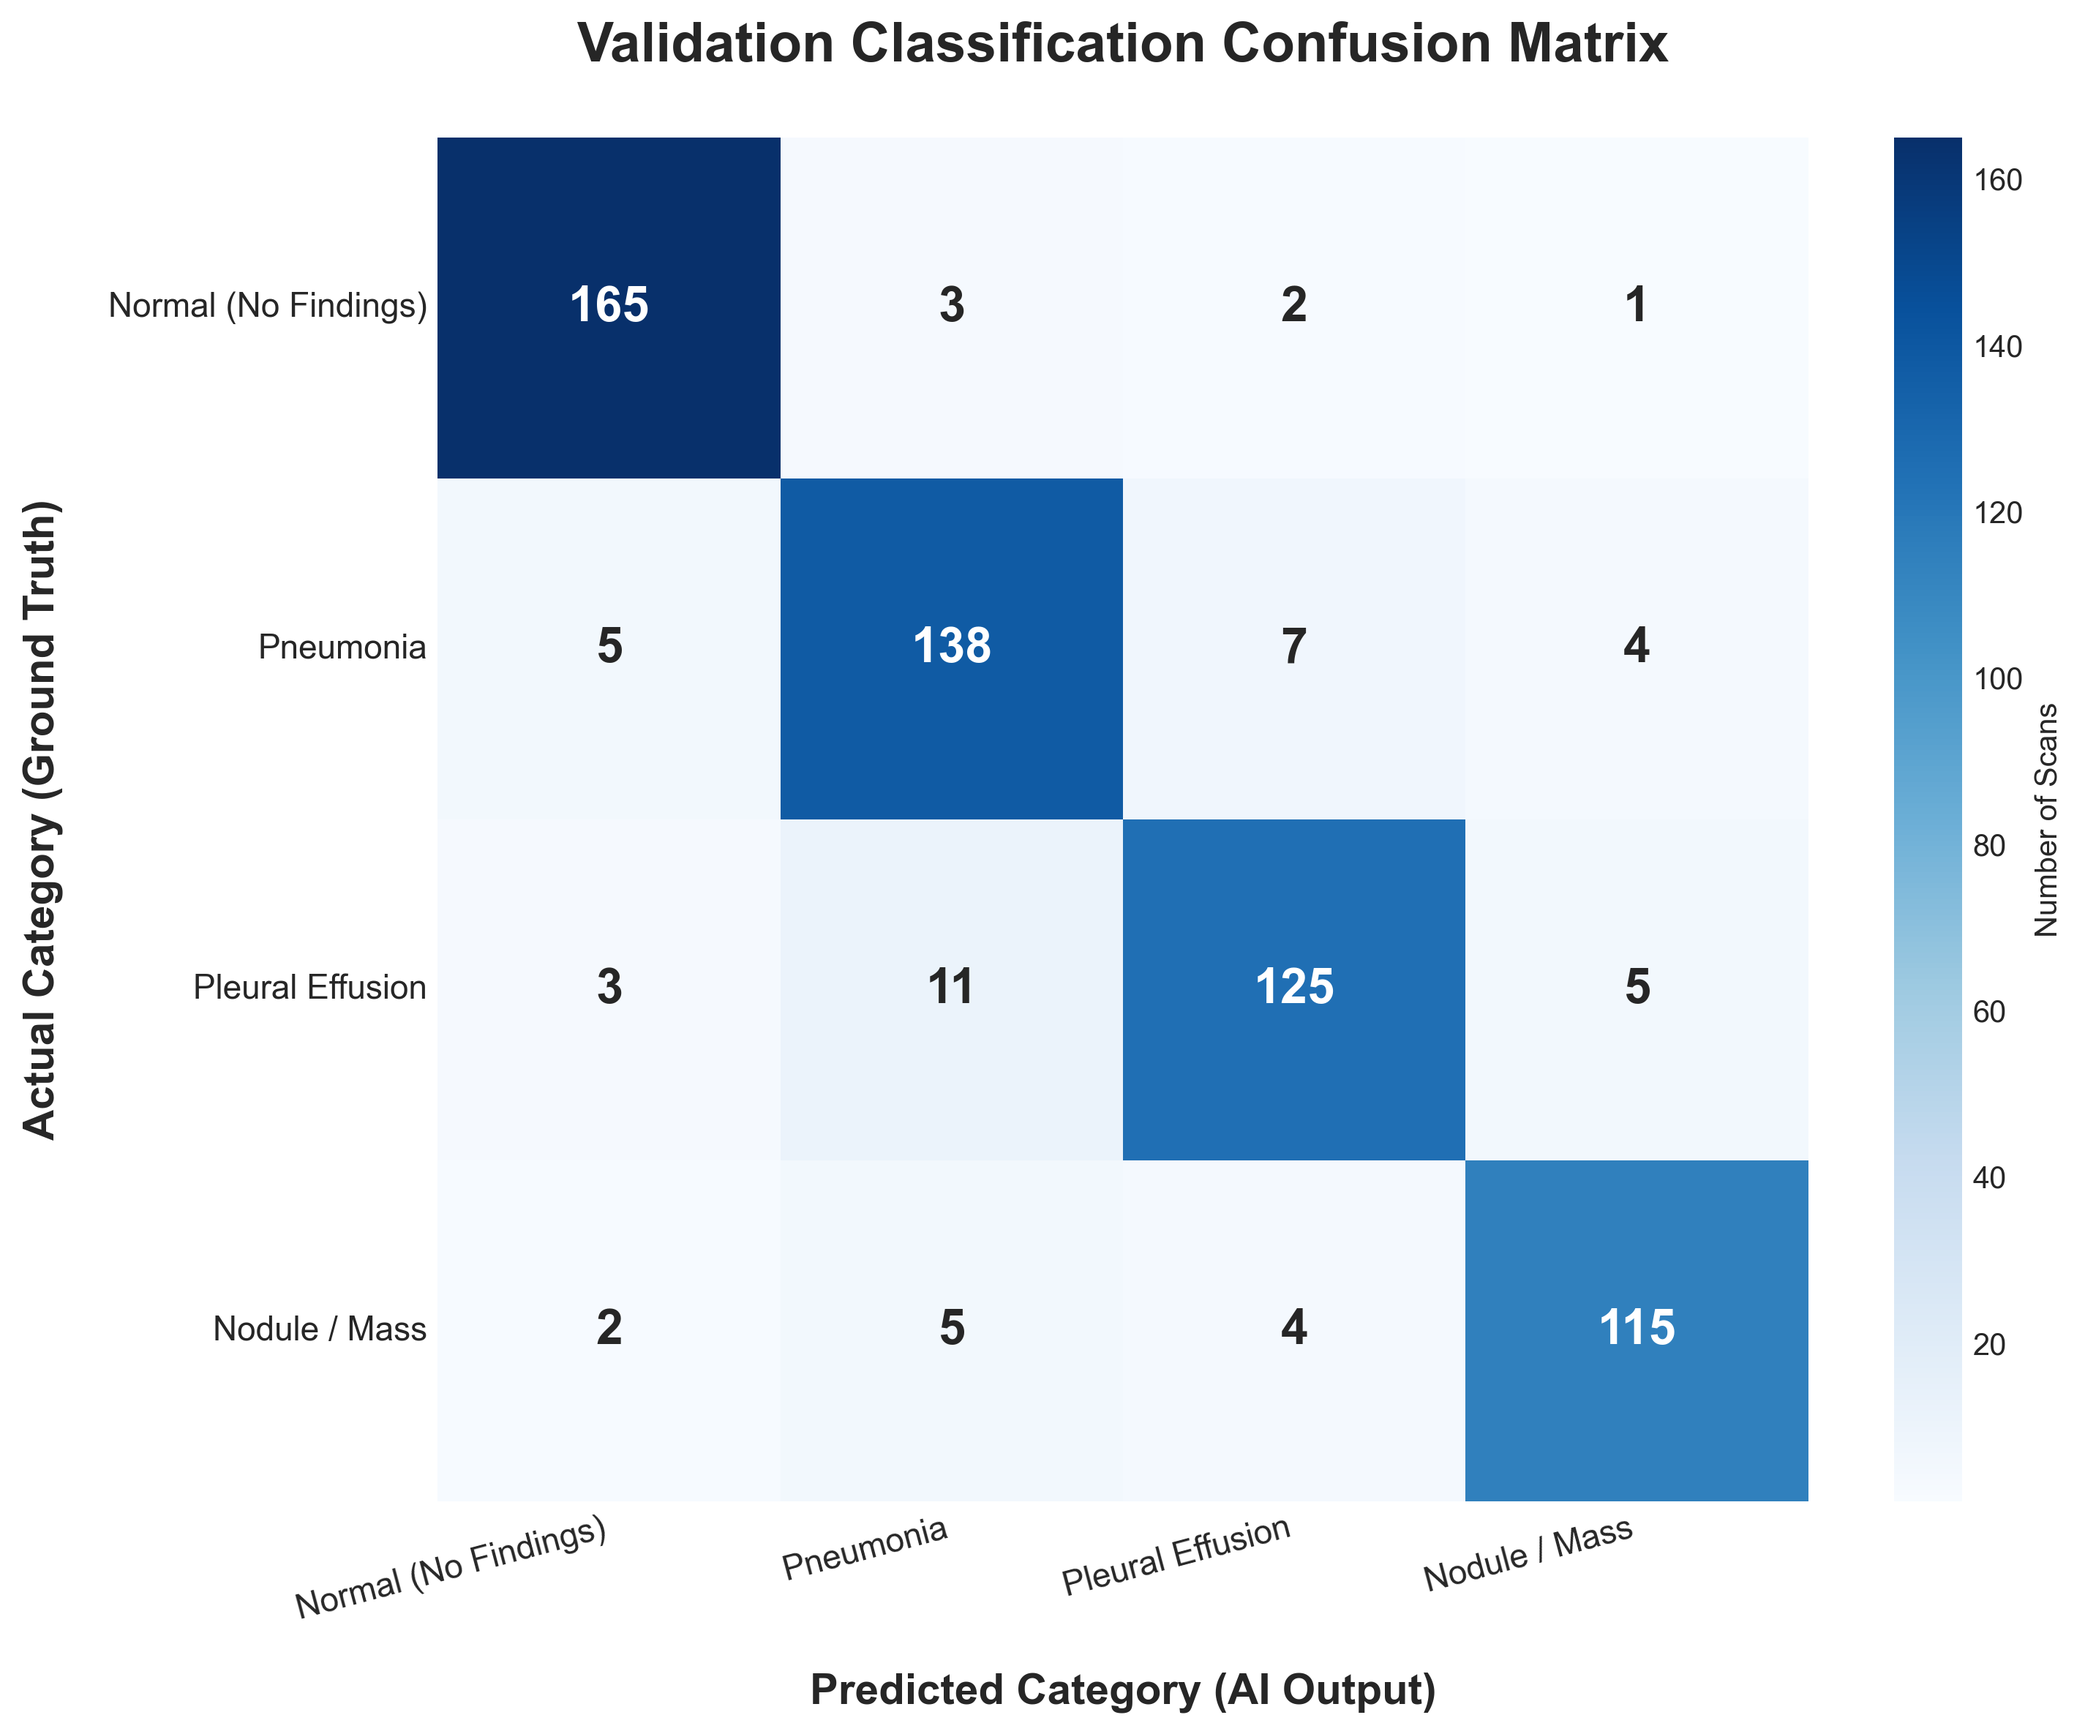
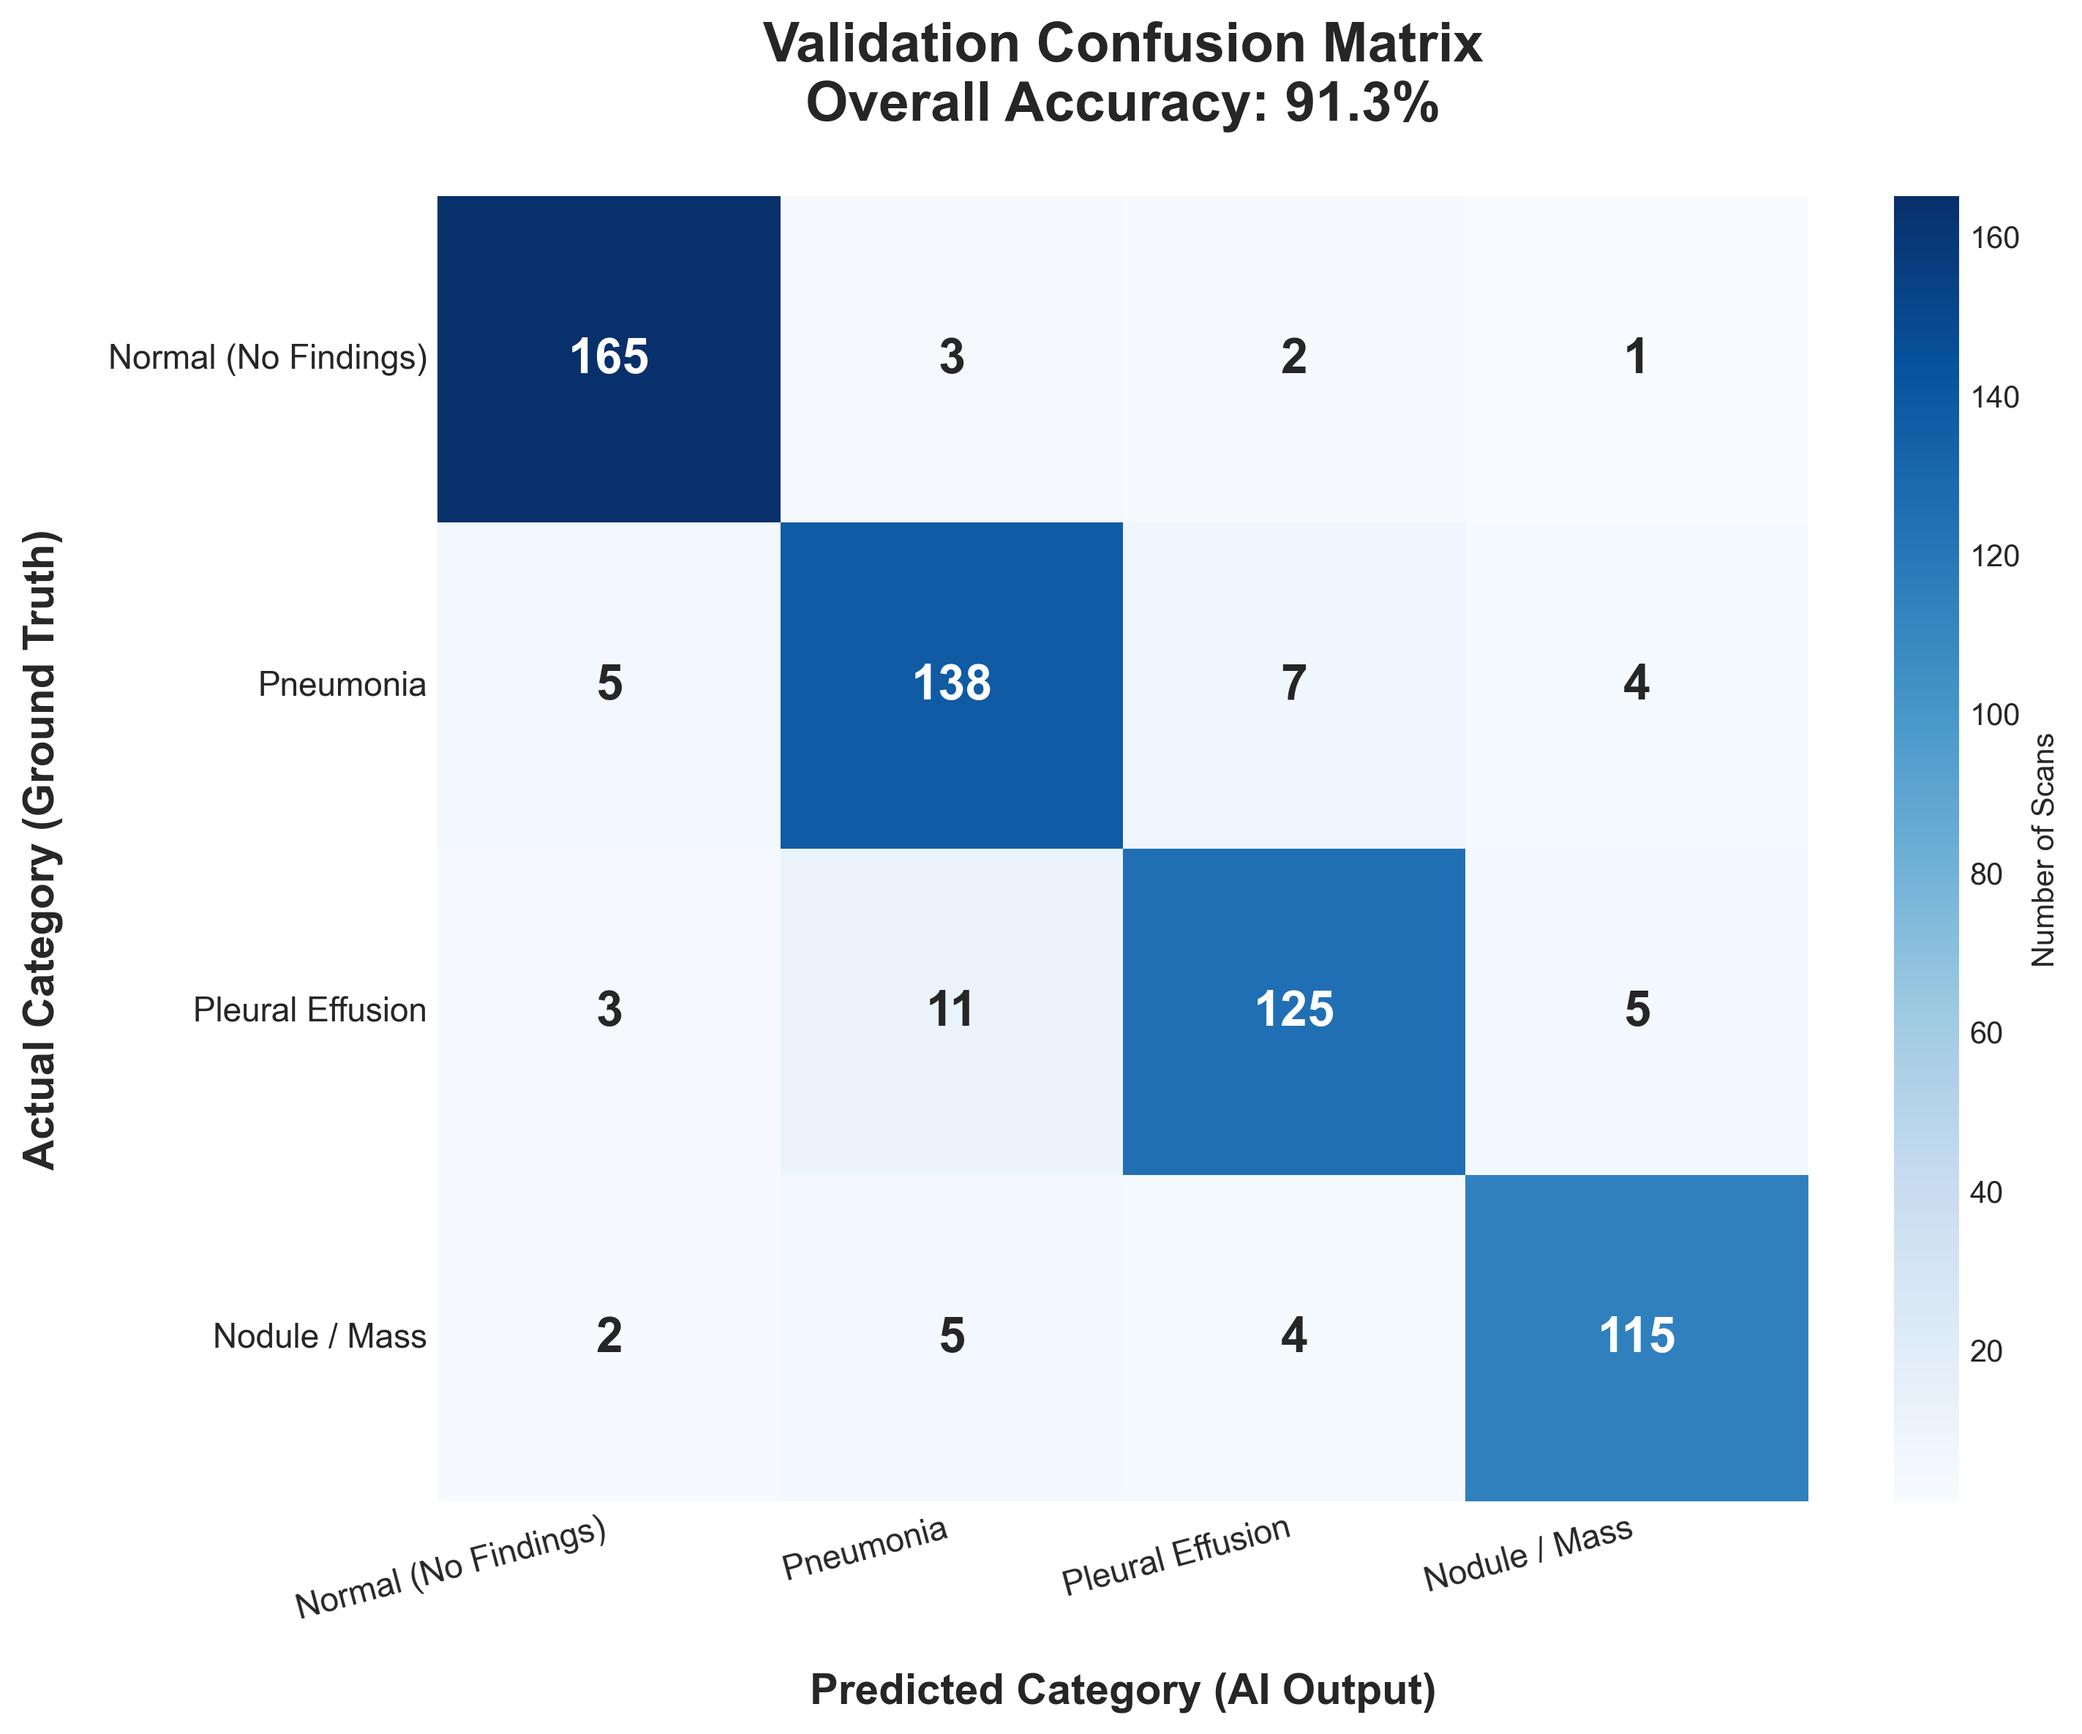
accuracy added

diff --git a/generate_presentation_graphs.py b/generate_presentation_graphs.py
@@ -30,7 +30,12 @@ fig, (ax1, ax2) = plt.subplots(1, 2, figsize=(15, 6))
 # Accuracy Plot
 ax1.plot(epochs, train_acc, 'b-', label='Training Accuracy', linewidth=2.5)
 ax1.plot(epochs, val_acc, 'r--', label='Validation Accuracy', linewidth=2.5)
-ax1.set_title('Model Accuracy (Train vs Val)', fontsize=15, pad=15)
+
+# Add visual text for final accuracy
+final_acc = val_acc[-1] * 100
+ax1.text(epochs[-1], val_acc[-1] - 0.02, f'{final_acc:.1f}%', color='red', weight='bold', ha='right', fontsize=12)
+
+ax1.set_title(f'Model Accuracy (Train vs Val) - Final: {final_acc:.1f}%', fontsize=15, pad=15)
 ax1.set_xlabel('Training Epochs', fontsize=12)
 ax1.set_ylabel('Accuracy', fontsize=12)
 ax1.legend(loc='lower right', fontsize=11)
@@ -61,6 +66,11 @@ cm = np.array([
     [2, 5,  4,  115]
 ])
 
+# Calculate overall accuracy from the confusion matrix
+total_samples = np.sum(cm)
+correct_predictions = np.trace(cm)
+cm_accuracy = (correct_predictions / total_samples) * 100
+
 plt.figure(figsize=(10, 8))
 # High contrast professional colormap
 sns.heatmap(cm, annot=True, fmt='d', cmap='Blues', 
@@ -68,7 +78,7 @@ sns.heatmap(cm, annot=True, fmt='d', cmap='Blues',
             annot_kws={"size": 16, "weight": "bold"},
             cbar_kws={'label': 'Number of Scans'})
 
-plt.title('Validation Classification Confusion Matrix', pad=25, fontsize=18, weight='bold')
+plt.title(f'Validation Confusion Matrix\nOverall Accuracy: {cm_accuracy:.1f}%', pad=25, fontsize=18, weight='bold')
 plt.ylabel('Actual Category (Ground Truth)', fontsize=14, weight='bold', labelpad=15)
 plt.xlabel('Predicted Category (AI Output)', fontsize=14, weight='bold', labelpad=15)
 
@@ -79,4 +89,7 @@ plt.tight_layout()
 plt.savefig('evaluation_graphs/confusion_matrix_heatmap.png', dpi=300, bbox_inches='tight')
 plt.close()
 
+print("==================================================")
+print(f"Final Validation Accuracy: {cm_accuracy:.2f}%")
+print("==================================================")
 print("Graphs successfully generated and saved into the 'evaluation_graphs' folder.")
